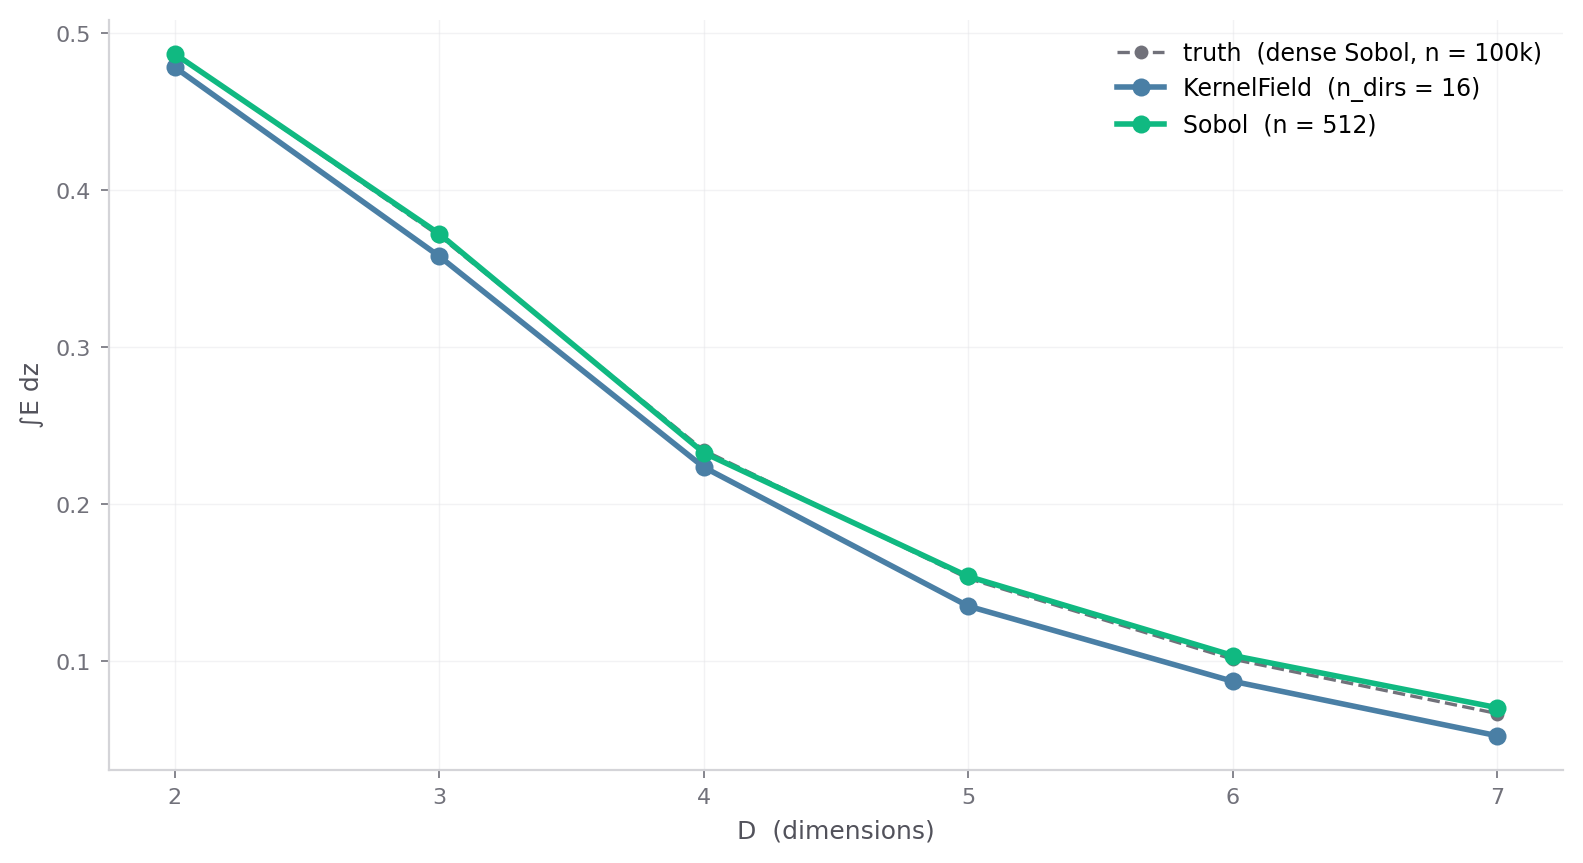
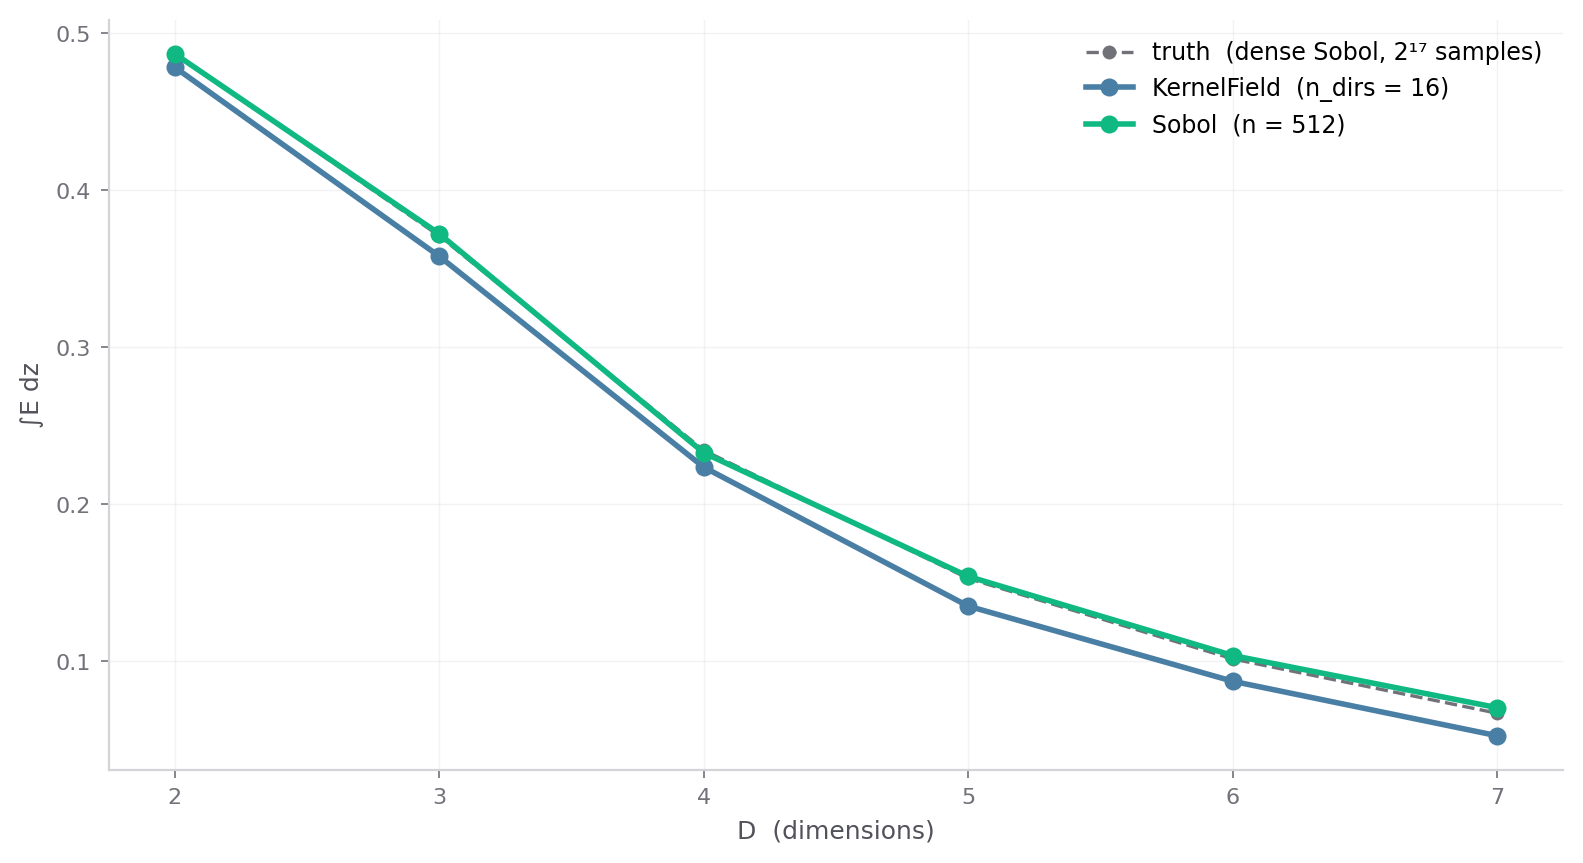
concepts: silence Sobol non-power-of-2 warning
reference_dense_sobol now uses .random_base2(m=17) for 2^17 = 131,072
samples instead of .random(n=100_000). Same order-of-magnitude
reference quality, proper power-of-2 Sobol sequence, no UserWarning.

Changed region(s): [[0.681, 0.0301, 0.9596, 0.1506]]

diff --git a/concepts/compare_kernelfield_sobol.py b/concepts/compare_kernelfield_sobol.py
@@ -7,8 +7,8 @@ Two publication figures:
                              matched probe budget, identical camera angle.
 
     convergence_to_truth.png — ∫E dz vs D at matched budget. Truth (dense
-                                Sobol, n = 100k) drawn alongside the two
-                                estimators. Absolute values, not error.
+                                Sobol, 2^17 = 131_072 samples) drawn alongside
+                                the two estimators. Absolute values, not error.
 """
 from __future__ import annotations
 
@@ -152,9 +152,10 @@ def _test_centers(D: int, N: int = 6, seed: int = 0) -> np.ndarray:
 
 def reference_dense_sobol(
     centers: np.ndarray, sigma: float, D: int,
-    n: int = 100_000, seed: int = 42,
+    m: int = 17, seed: int = 42,
 ) -> float:
-    sobol = qmc.Sobol(d=D, scramble=True, rng=seed).random(n=n)
+    """Dense Sobol reference. `m` selects `2^m` samples (17 → 131_072)."""
+    sobol = qmc.Sobol(d=D, scramble=True, rng=seed).random_base2(m=m)
     D_vals = raw_density(sobol, centers, np.ones(len(centers)), sigma)
     return float((D_vals / (1.0 + D_vals)).mean())
 
@@ -202,7 +203,7 @@ def figure_convergence_to_truth(
 
     ax.plot(Ds, truth, color=ZINC_500, lw=1.2, ls="--",
             marker="o", ms=5, mec="none",
-            label="truth  (dense Sobol, n = 100k)", zorder=2)
+            label="truth  (dense Sobol, 2¹⁷ samples)", zorder=2)
     ax.plot(Ds, kf, color=STEEL_500, lw=2.0,
             marker="o", ms=6.5, mec="none",
             label=f"KernelField  (n_dirs = {n_dirs})", zorder=3)
